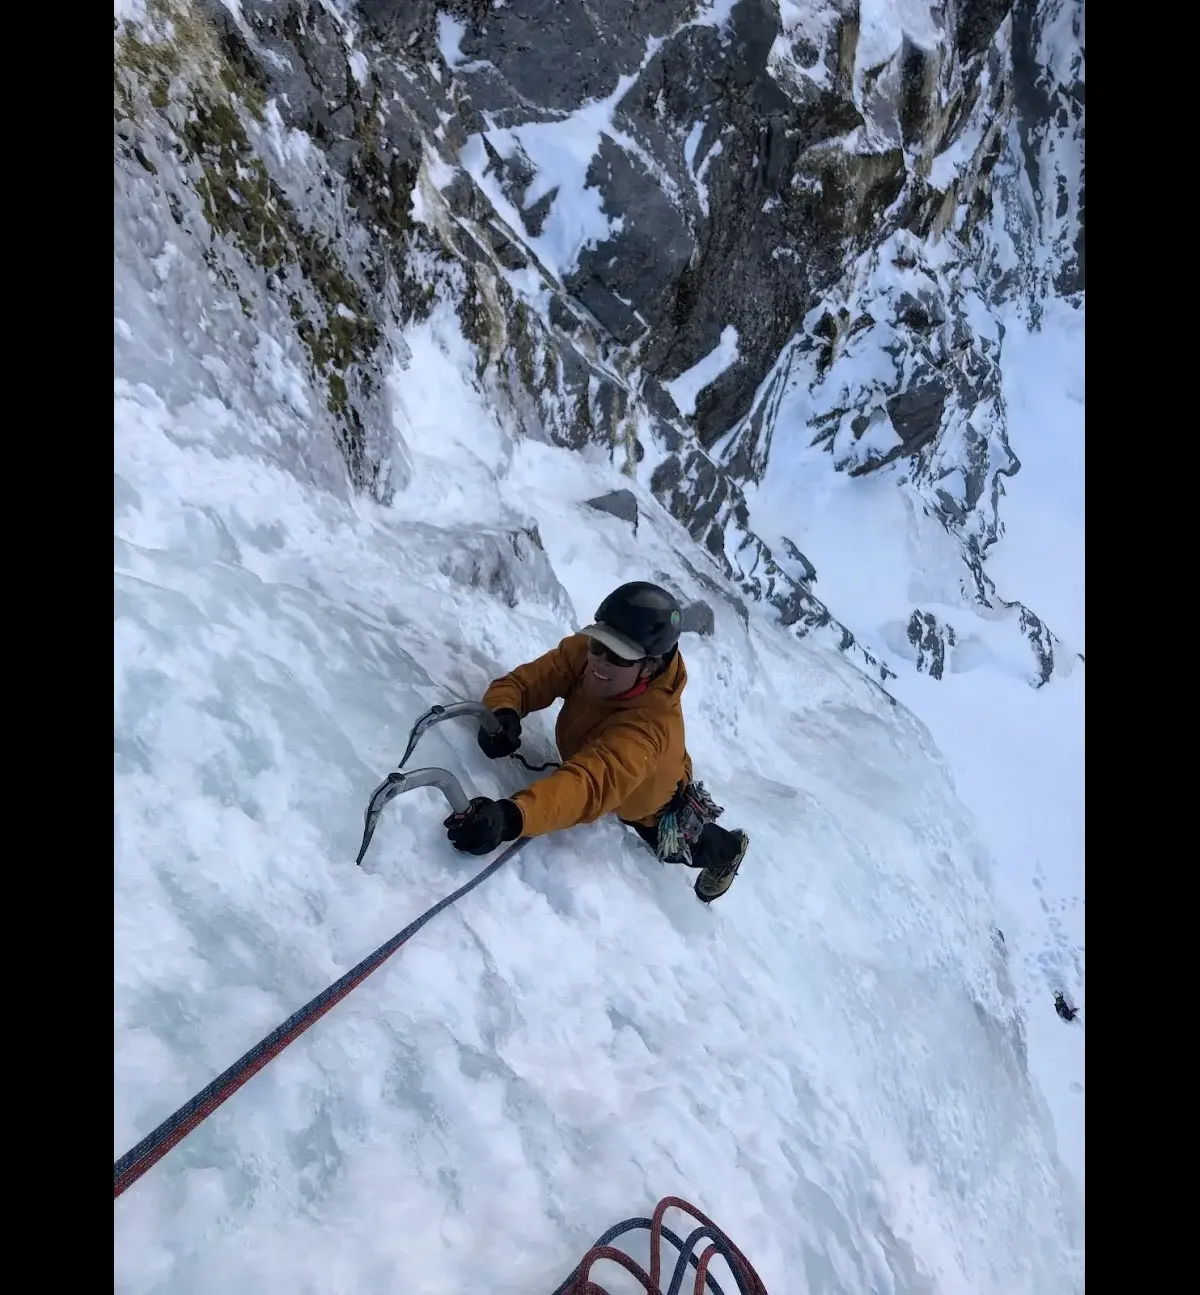
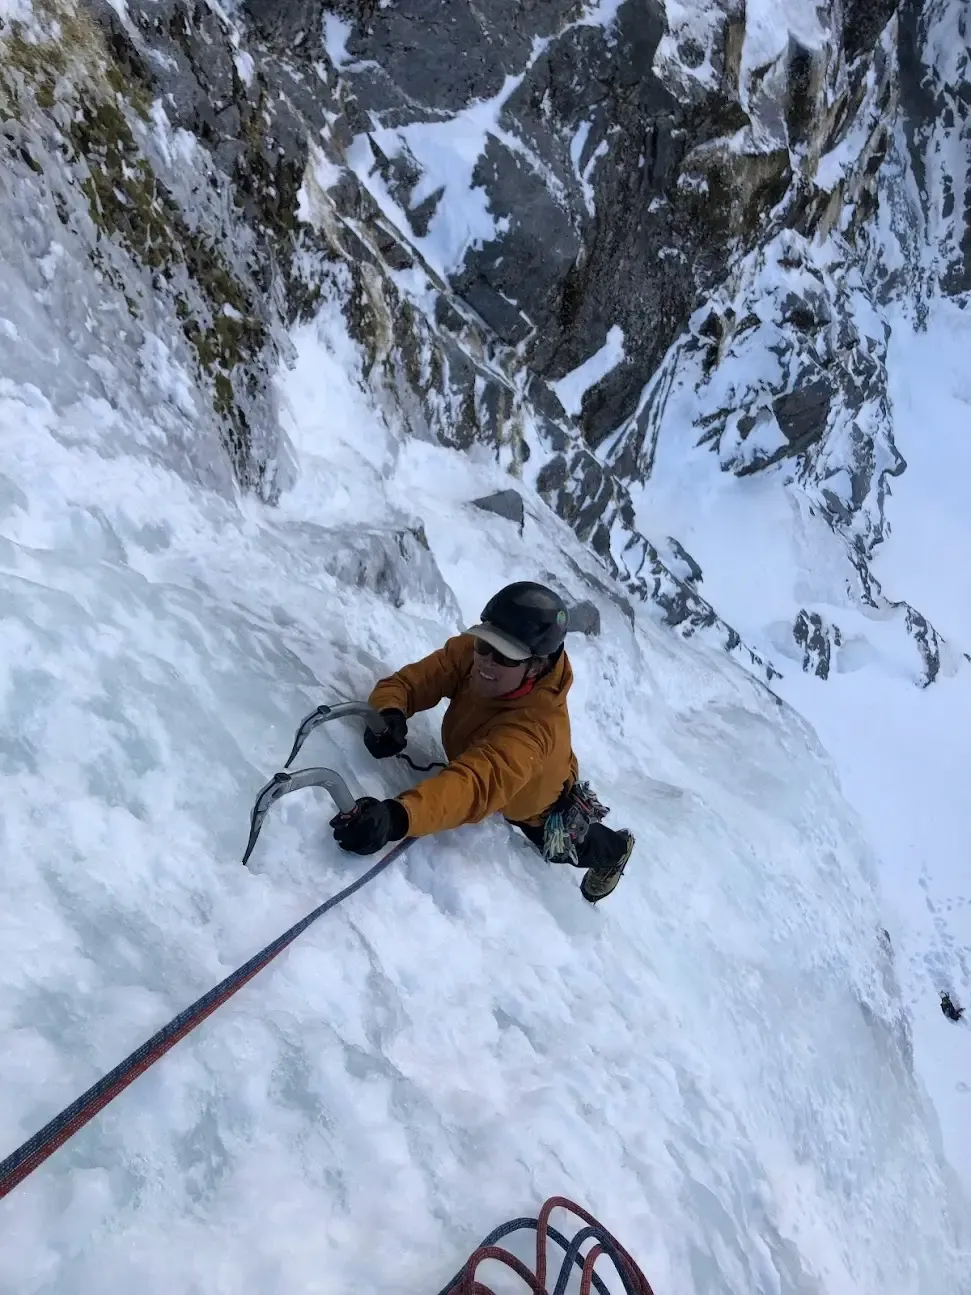
fixing images

diff --git a/src/pages/Climbing.jsx b/src/pages/Climbing.jsx
@@ -1,24 +1,15 @@
 import styled from 'styled-components';
 import { motion } from 'framer-motion';
 import { Link } from 'react-router-dom';
-import RidgeClimbing from "../Images/ridgeClimbing.webp"
-import PetTrogan from "../Images/PetTrogan.webp"
-import PetRidge from '../Images/Pet-on-ridge.webp'
-
-import ServiceBadges from '../components/common/ServiceBadges';
-import SkiMountaineering from '../images/SkiMountaineeringImage.jpg'
-import Malte from '../images/patMalteBrun.webp'
-import PatNazomi from '../images/pat-nazomi.webp'
-import Instruction from '../images/Instruction.jpg'
-import RockClimbing from '../images/RockClimbing.jpg'
 import Gallery from '../components/Gallery';
+import ServiceBadges from '../components/common/ServiceBadges';
 
 const images = [
-  SkiMountaineering,
-  Malte,
-  PatNazomi,
-  Instruction,
-  RockClimbing
+  '/images/SkiMountaineeringImage-1200.webp',
+  '/images/patMalteBrun-1200.webp',
+  '/images/pat-nazomi-1200.webp',
+  '/images/Instruction-1200.webp',
+  '/images/RockClimbing-1200.webp'
 ];
 
 const Climbing = () => {
@@ -38,7 +29,7 @@ const Climbing = () => {
             "Instructional courses"
           ],
           description: "Technical alpine climbing in New Zealand's Southern Alps. From moderate snow and ice routes to challenging mixed climbing.",
-          image: Malte
+          image: '/images/patMalteBrun-1200.webp'
         },
         {
           name: "Ice Climbing",
@@ -49,7 +40,7 @@ const Climbing = () => {
             "South Face Hicks",
           ],
           description: "Ice Climbing private guiding on technical ice routes",
-          image: PatNazomi
+          image: '/images/pat-nazomi-1200.webp'
         },
         {
           name: "Rock Climbing Guiding",
@@ -60,7 +51,7 @@ const Climbing = () => {
             "Overseas Trips Available"
           ],
           description: "Guiding, instruction and courses for Rock Climbing and Rope Resuce.",
-          image: RockClimbing
+          image: '/images/RockClimbing-1200.webp'
         },
         {
           name: "Courses and Instruction",
@@ -72,7 +63,7 @@ const Climbing = () => {
             
           ],
           description: "Guiding, instruction and courses To stay safe in the mountains",
-          image: Instruction
+          image: '/images/Instruction-1200.webp'
         },
       
       ]
@@ -86,7 +77,7 @@ const Climbing = () => {
     {
       title: "Tailored Alpine Adventures",
       description: "Let us craft a unique alpine experience that builds on your past climbs and pushes your boundaries. Whether you're looking to conquer new peaks or refine your skills, we'll design a journey that matches your aspirations.",
-      image: RidgeClimbing,
+      image: '/images/ridgeClimbing-1200.webp',
       highlights: [
         "Trip selections based on experience",
         "Skill enhancement",
@@ -96,7 +87,7 @@ const Climbing = () => {
     {
       title: "Bespoke Rock Climbing Trips",
       description: "Experience the thrill of rock climbing with a personalized itinerary. From single-pitch sport climbs to multi-pitch trad adventures, we'll tailor the perfect climbing trip based on your previous experiences and future goals.",
-      image: PetTrogan,
+      image: '/images/PetTrogan-1200.webp',
       highlights: [
         "Handpicked routes",
         "Technique improvement",
@@ -109,7 +100,7 @@ const Climbing = () => {
     {
       title: "Personalised Overseas Climbing Trips",
       description: "Get in touch if you have a dream climbing trip in mind.  Let's make it happen.",
-      image: SkiMountaineering,
+      image: '/images/SkiMountaineeringImage-1200.webp',
       highlights: [
         "Build on previous experience",
         "Customised trips",
@@ -173,7 +164,9 @@ const Climbing = () => {
             <LocationGrid>
               {activity.locations.map((location, locIndex) => (
                 <LocationCard key={locIndex}>
-                  <LocationImage src={location.image} alt={location.name} />
+                  <ImageContainer>
+                    <LocationImage src={location.image} alt={location.name} />
+                  </ImageContainer>
                   <LocationContent>
                     <LocationHeader>
                       <LocationName>{location.name}</LocationName>
@@ -225,7 +218,7 @@ const ClimbingWrapper = styled.div`
 const HeroSection = styled.div`
   height: 70vh;
   background: linear-gradient(rgba(0, 0, 0, 0.5), rgba(0, 0, 0, 0.5)),
-    url(${PetRidge}) center/cover;
+    url('/images/Pet-on-ridge-1200.webp') center/cover;
   display: flex;
   align-items: center;
   justify-content: center;
@@ -281,12 +274,22 @@ const LocationCard = styled.div`
   border-radius: 12px;
   overflow: hidden;
   box-shadow: 0 4px 24px rgba(0, 0, 0, 0.1);
+  display: flex;
+  flex-direction: column;
+`;
+
+const ImageContainer = styled.div`
+  width: 100%;
+  height: 300px;
+  overflow: hidden;
 `;
 
 const LocationImage = styled.img`
   width: 100%;
-  height: 300px;
+  height: 100%;
   object-fit: cover;
+  object-position: center;
+  display: block;
 `;
 
 const LocationContent = styled.div`
@@ -423,6 +426,10 @@ const JourneyImage = styled.img`
   width: 100%;
   height: 300px;
   object-fit: cover;
+  object-position: center;
+  aspect-ratio: 16/9;
+  margin: 0;
+  display: block;
 `;
 
 const JourneyContent = styled.div`

diff --git a/src/pages/FAQ.jsx b/src/pages/FAQ.jsx
@@ -1,10 +1,9 @@
 import styled from 'styled-components';
 import { useState, useEffect } from 'react';
 import { motion, AnimatePresence } from 'framer-motion';
-import Instruction2 from '../images/Instruction2.jpg'
 // Use optimized images
-const HeroBackground = '/images/WestCoast-1200.webp';  // Main image
-const HeroBackgroundTiny = '/images/WestCoast-placeholder.webp';  // Blur placeholder
+const HeroBackground = '/images/instruction2-1200.webp';  // Main image
+const HeroBackgroundTiny = '/images/instruction2-placeholder.webp';  // Blur placeholder
 
 const FAQ = () => {
   const [isLoaded, setIsLoaded] = useState(false);
@@ -120,7 +119,10 @@ const FAQWrapper = styled.div`
 
 const FAQHero = styled.div`
   background: linear-gradient(rgba(0, 0, 0, 0.3), rgba(0, 0, 0, 0.3)),
-    url(${Instruction2}) center/cover;
+    ${props => props.isLoaded 
+      ? `url(${HeroBackground})`
+      : `url(${HeroBackgroundTiny})`} 
+    center/cover;
     
   padding: 6rem 2rem;
   text-align: center;

diff --git a/src/components/home/FeaturedLocations.jsx b/src/components/home/FeaturedLocations.jsx
@@ -4,7 +4,6 @@ import { useState, useEffect } from 'react';
 import { Link } from 'react-router-dom';
 import { LazyLoadImage } from 'react-lazy-load-image-component';
 import 'react-lazy-load-image-component/src/effects/blur.css';
-import { locations } from '../../utils/locations';
 
 const OptimizedLocationCard = ({ location }) => {
   const [isLoaded, setIsLoaded] = useState(false);
@@ -53,7 +52,7 @@ const OptimizedLocationCard = ({ location }) => {
 const FeaturedLocations = () => {
   // Preload the first few images
   useEffect(() => {
-    const preloadCount = 3; // Preload first 3 images
+    const preloadCount = 3;
     locations.slice(0, preloadCount).forEach(location => {
       const img = new Image();
       img.src = location.image;

diff --git a/scripts/optimize-images.js b/scripts/optimize-images.js
@@ -24,9 +24,9 @@ async function optimizeImages() {
         .resize({
           width: 1200,
           withoutEnlargement: true,
-          fit: 'contain'
+          fit: 'cover'
         })
-        .webp({ quality: 80 })
+        .webp({ quality: 90 })
         .toFile(path.join(outputDir, `${path.parse(file).name}-1200.webp`));
 
       // Create smaller versions
@@ -34,9 +34,9 @@ async function optimizeImages() {
         .resize({
           width: 800,
           withoutEnlargement: true,
-          fit: 'contain'
+          fit: 'cover'
         })
-        .webp({ quality: 80 })
+        .webp({ quality: 75 })
         .toFile(path.join(outputDir, `${path.parse(file).name}-800.webp`));
 
       // Create placeholder versions

diff --git a/src/pages/Contact.jsx b/src/pages/Contact.jsx
@@ -1,6 +1,6 @@
 import styled from 'styled-components';
 import { motion } from 'framer-motion';
-import Stock from '../Images/Stockimage.jpg'
+
 const Contact = () => {
   const whatsappNumber = "+64 22 561 8308"; // Replace with actual number
   const instagramHandle = "sheclimbs.skis"; // Replace with actual handle
@@ -100,7 +100,7 @@ const ContactWrapper = styled.div`
 
 const ContactHero = styled.div`
   background: linear-gradient(rgba(0, 0, 0, 0.5), rgba(0, 0, 0, 0.5)),
-    url(${Stock}) center/cover;
+    url('/images/Stockimage-1200.webp') center/cover;
   height: 60vh;
   display: flex;
   align-items: center;
